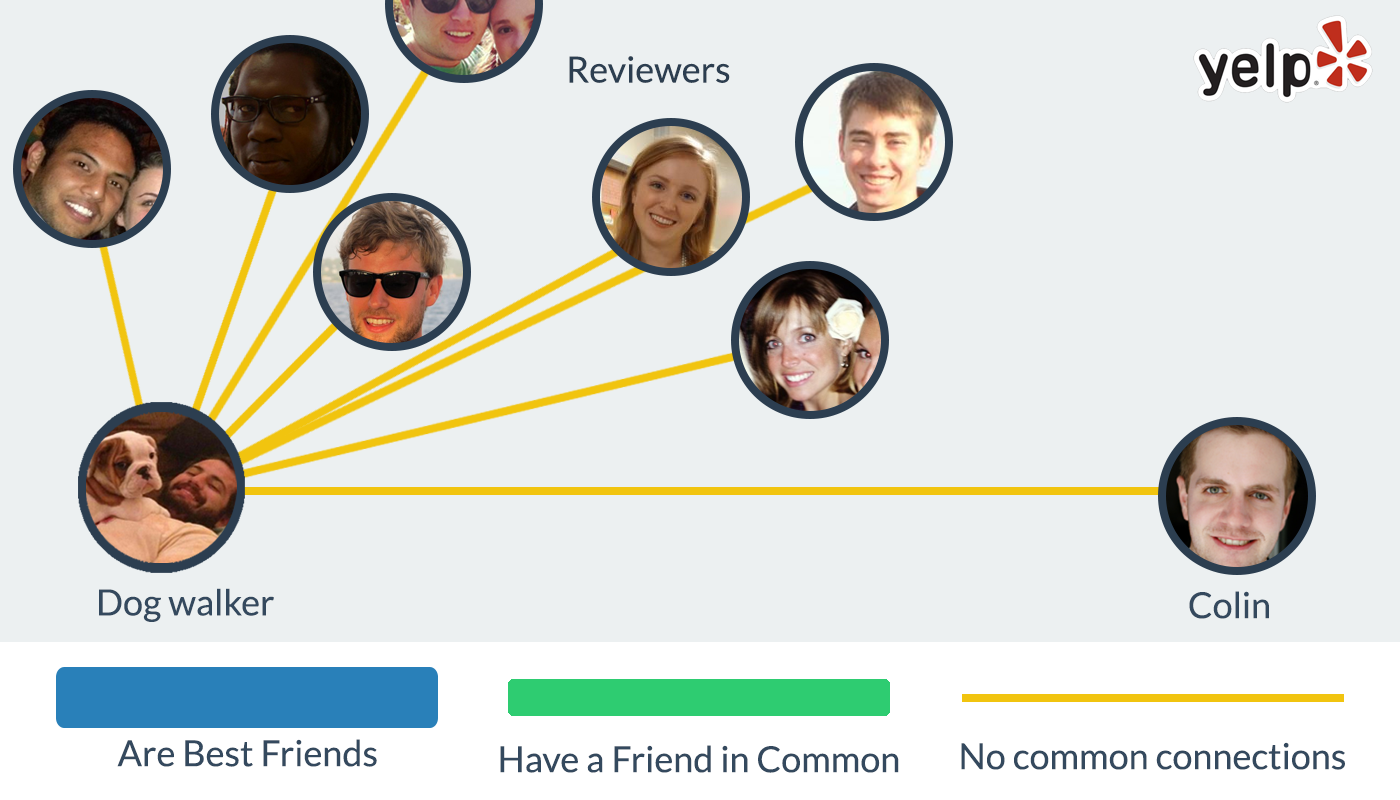
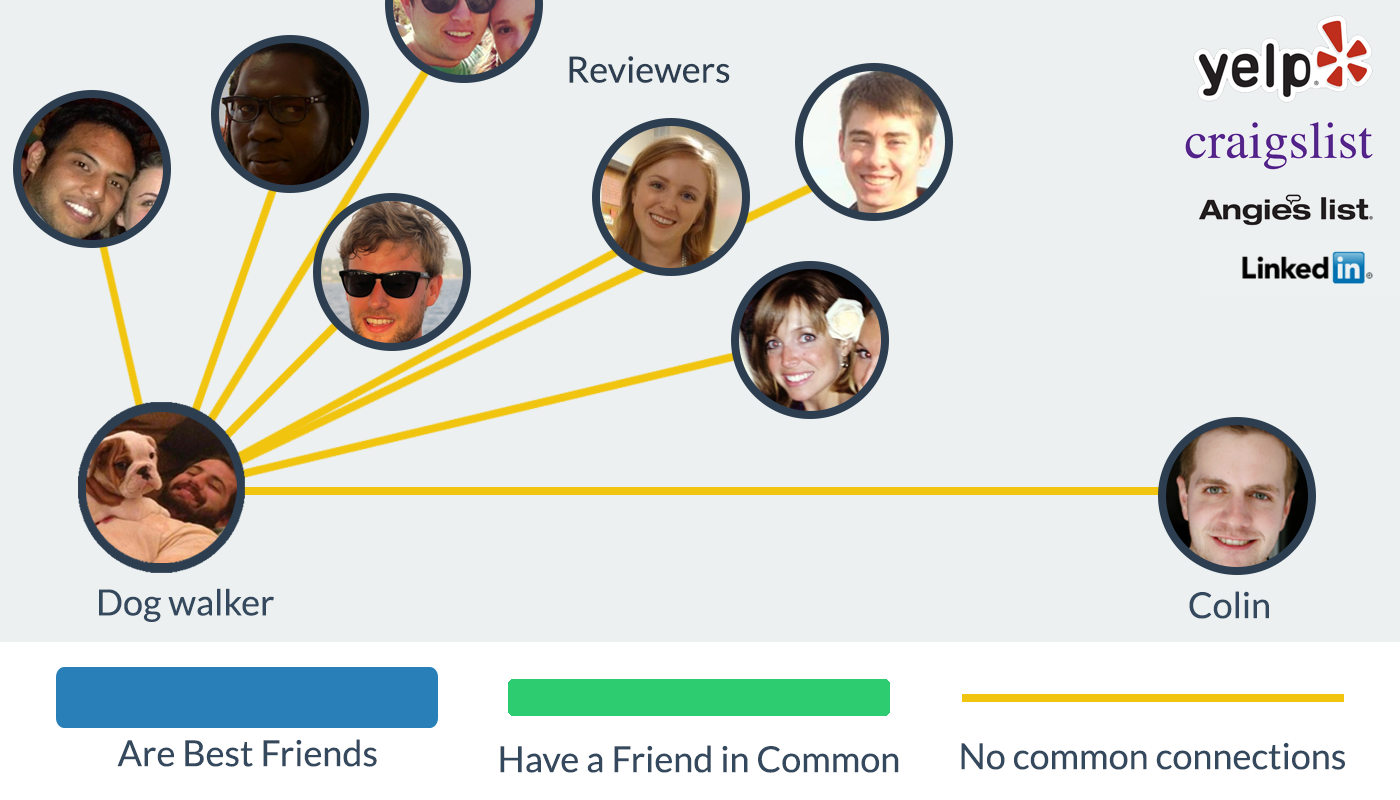
added img

Changed region(s): [[0.86, 0.1562, 0.9829, 0.2188], [0.8907, 0.3125, 0.9829, 0.375], [0.86, 0.25, 0.9829, 0.2812]]

diff --git a/index.html b/index.html
@@ -48,7 +48,7 @@
 
 				<!-- Pitch -->
 				<section class="presentimg">
-					<img src="img/5stararmy_v2_flat_alt.png" alt="Yelp" height="840" width="1120">
+					<img src="img/Final_reviewers_slide_2.png" alt="Yelp" height="840" width="1120">
 				</section>
 
 				<!-- Yelp graph -->
@@ -68,7 +68,7 @@
 
 				<!-- User tests: interviews -->
 				<section style="top:-400px !important;">
-					<img src="img/freelancers-big.png" alt="User tests" height="620" width="1000">
+					<img src="img/freelancers_9.png" alt="User tests" height="936" width="1107">
 				</section>
 
 				<!-- Yelp use case: review 1 -->
